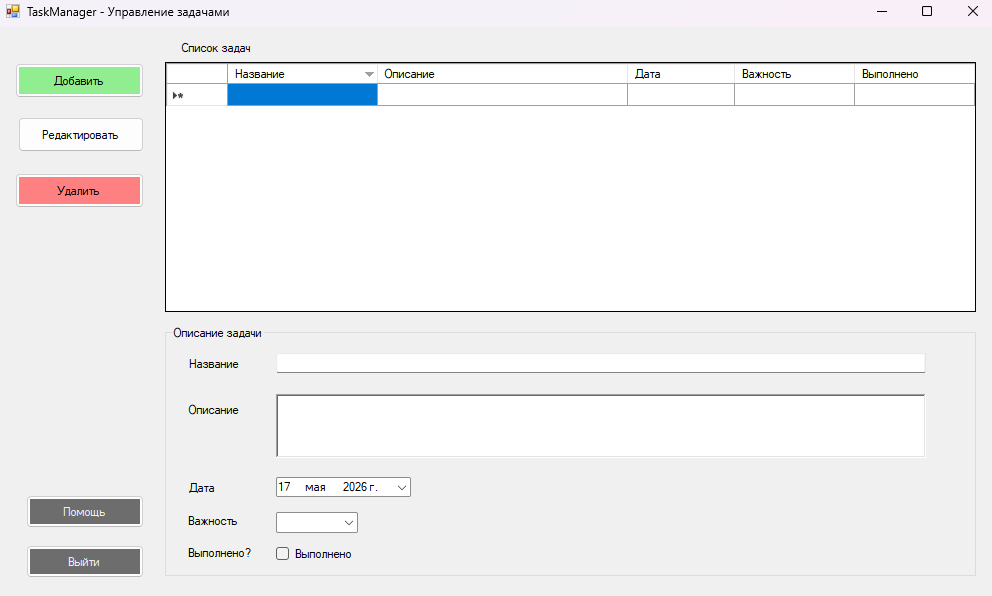
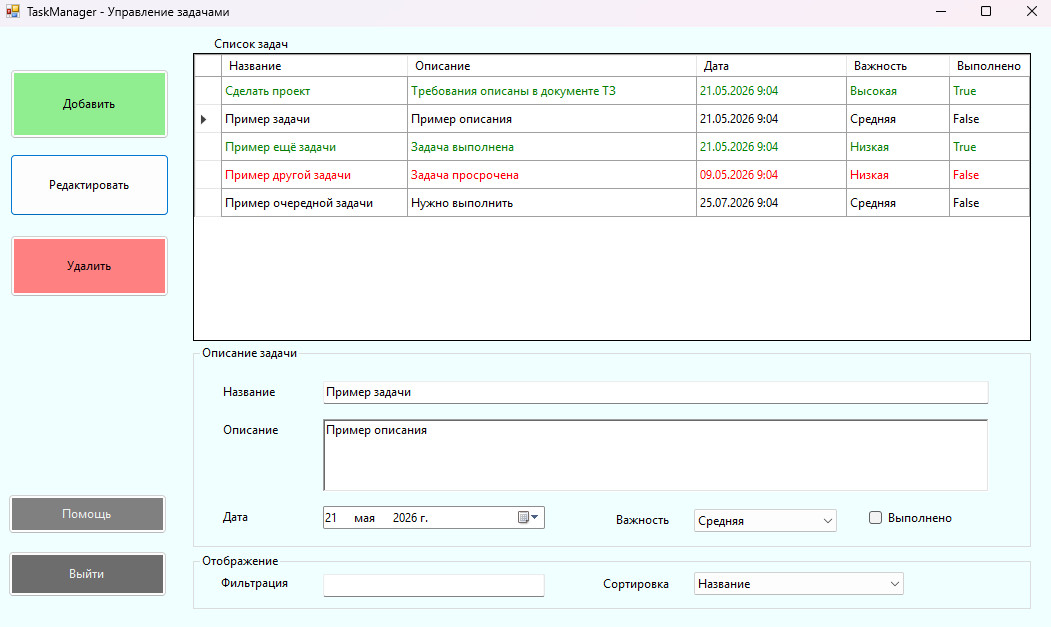
Update readme.md

diff --git a/README.md b/README.md
@@ -2,21 +2,21 @@
 
 Десктопное приложение для управления личными задачами, созданное в рамках учебного пет-проекта (с требованием выложить это в гитхаб).
 
-<img src=".github/screenshot.png" alt="screenshot" style="width: 50%; height: 50%;">
+<img src=".github/screenshot.png" alt="screenshot" style="width: 65%; height: 65%;">
 
 ## Возможности приложения
 *   **Управление задачами:** добавление, редактирование и удаление задач.
 *   **Детализация задач:** у каждой задачи есть название, описание, дата выполнения, приоритет и статус выполнения.
 *   **Сортировка и фильтрация:** удобный поиск и упорядочивание списка.
-*   **Цветовая индикация:** визуальное выделение дедлайнов.
-*   **Массовые операции:** поддержка множественного удаления задач.
+*   **Цветовая индикация:** визуальное выделение дедлайнов и выполненных задач.
+*   **Массовые операции:** поддержка массового удаления задач.
 
 ### Ограничения (по ТЗ):
 *   Использованы только встроенные библиотеки **.NET**.
 *   Никаких сторонних внешних зависимостей и NuGet-пакетов.
 *   Базы данных не используются, весь код выполняется в рамках одного решения.
 
-> ⚠️ Приложение работает в In-Memory режиме. Все данные хранятся только в оперативной памяти. Сохранения не происходит - при закрытии программы задачи удаляются.
+> Все данные хранятся только в оперативной памяти. Сохранения не происходит - при закрытии программы задачи удаляются.
 
 ---
 